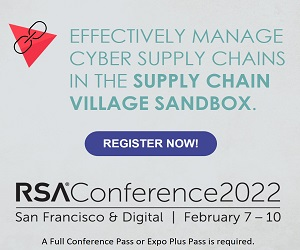
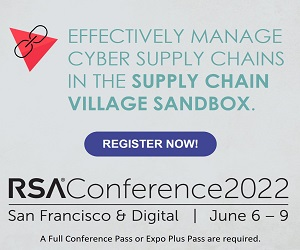
Update Upcoming events page with RSAC 2022 move to June.

diff --git a/src/pages/upcoming.js b/src/pages/upcoming.js
@@ -29,7 +29,7 @@ const Upcoming = (props) => (
                             <p>
                             <b>Discover the weak Supply Chain links at RSAC Sandbox.</b>
                             </p>
-                            <p>Tuesday, February 8th through Thursday, February 10th</p>
+                            <p>Tuesday, June 7th through Thursday, June 9th</p>
                             <p>
 Supply chain management is a critical factor of business success. Explore the impacts of supply chain issues and learn concepts and approaches to manage cyber supply chains more effectively. Join us in the Supply Chain Village Sandbox from Tuesday, February 8 through Thursday, February 10. Plus, <Link to="https://www.rsaconference.com/usa?utm_source=sb-supchain&utm_medium=referral&utm_campaign=textad-us2022">register today</Link> using code 32USBSCVFD to save $150 off your RSAC 2022 Full Conference Pass. Open to Full Conference and Expo Plus passholders only.
                             </p> 
